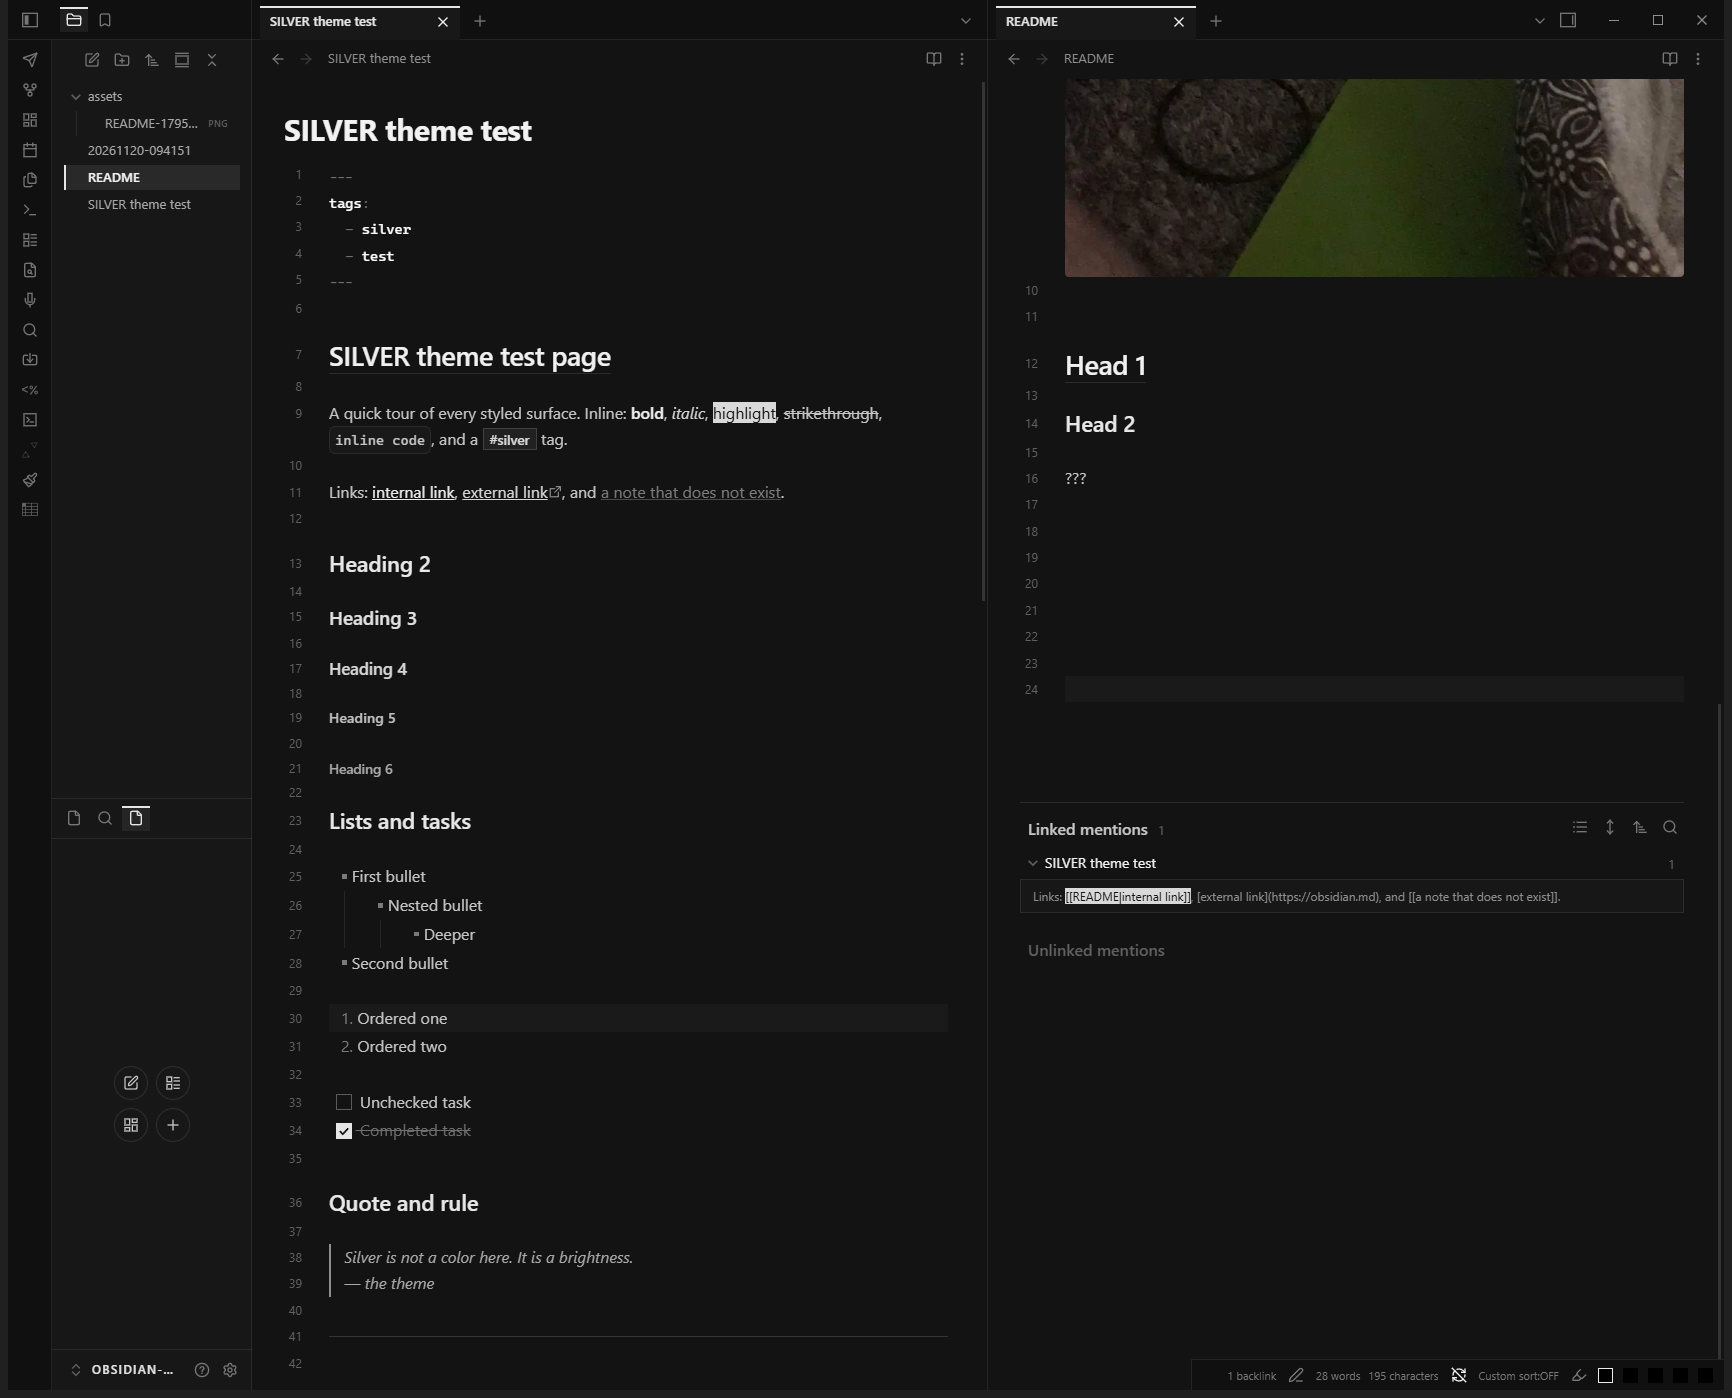
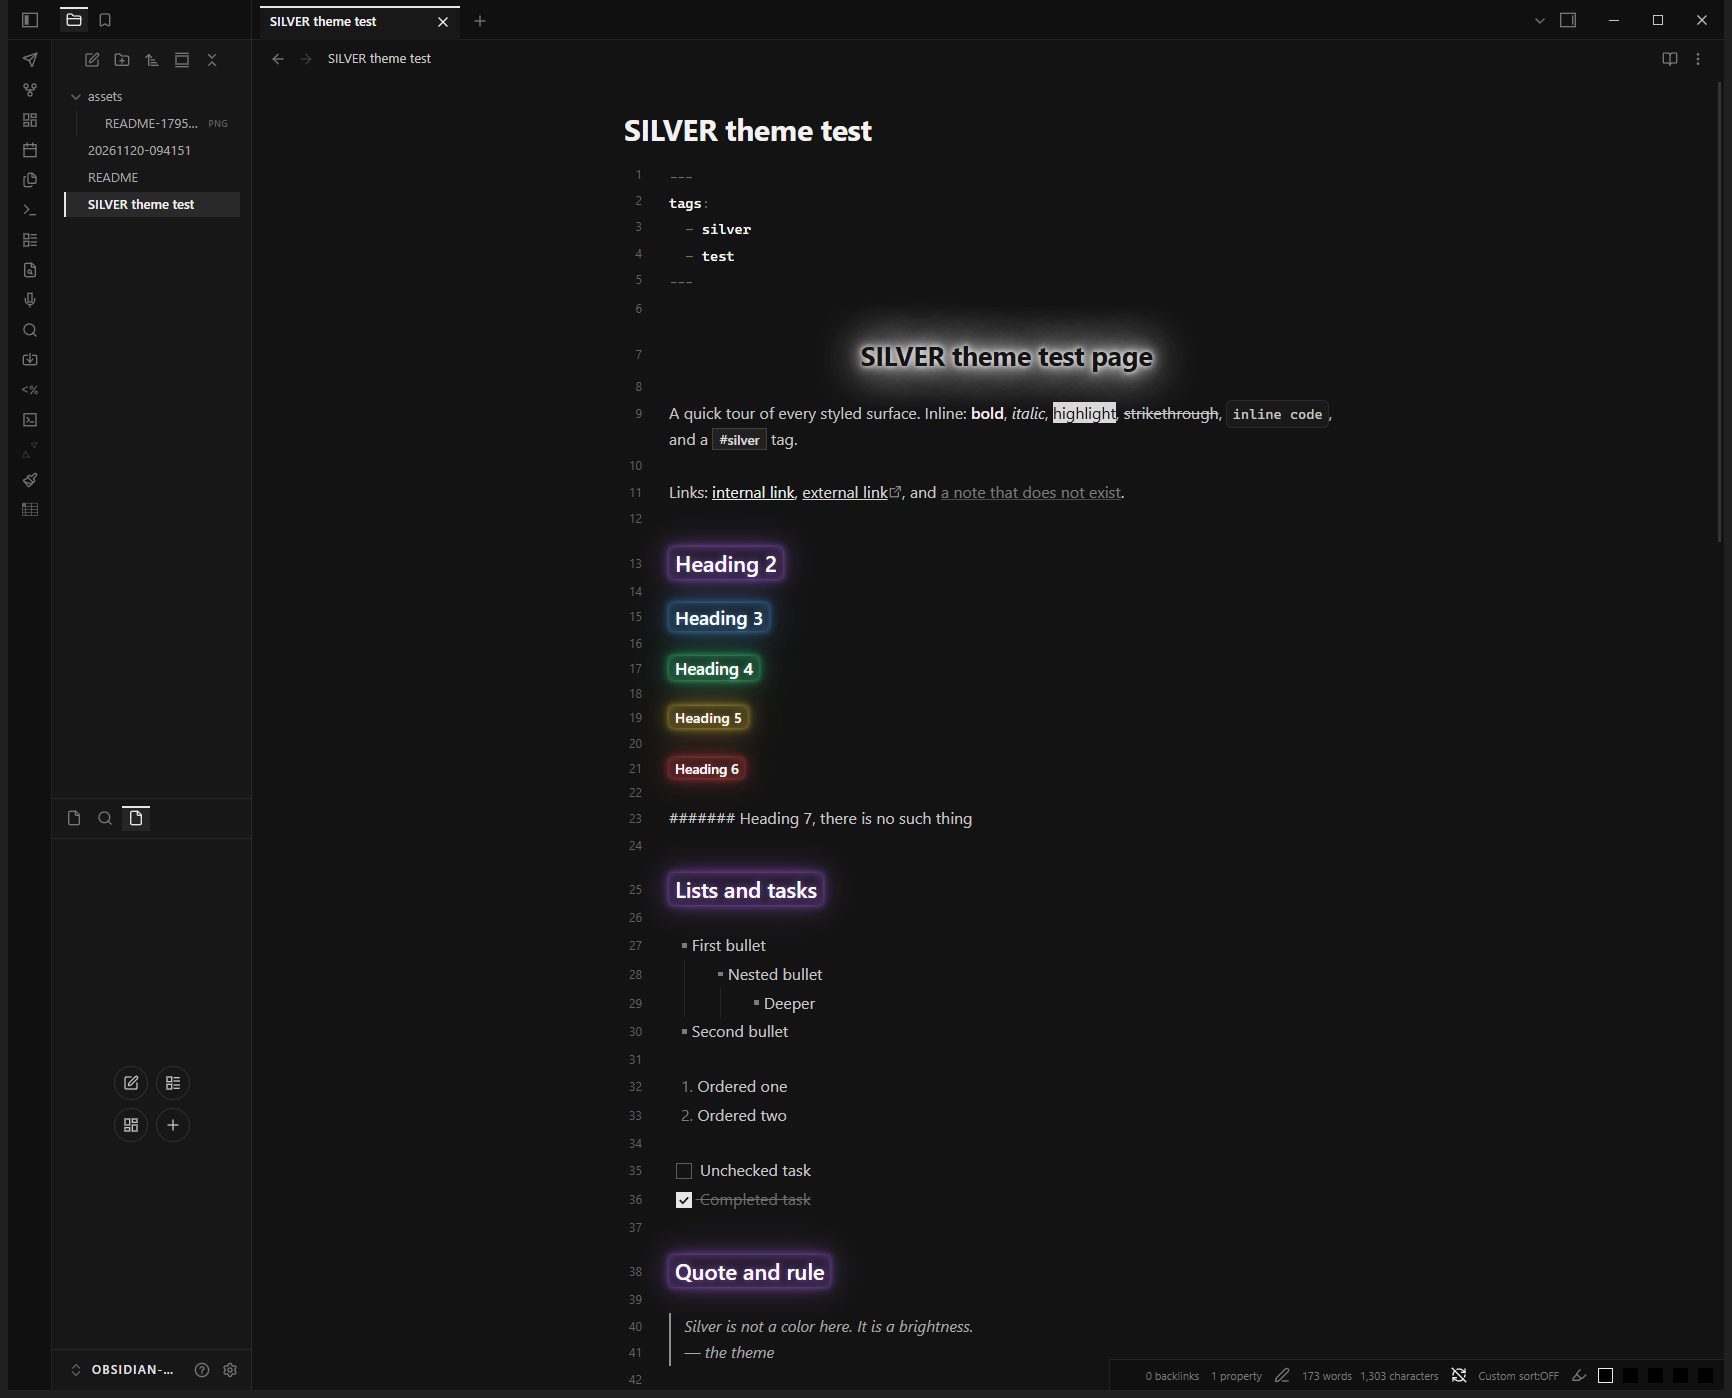
H2-6 with 5 rainbow neon-glow background

diff --git a/theme.css b/theme.css
@@ -381,6 +381,19 @@ svg * {
 }
 
 /* ---------------------------------------------------------------
+   Neon header spectrum — experimental, intentional departure from
+   the monochrome language. H2–H6 only; H1 stays silver.
+   --------------------------------------------------------------- */
+
+.theme-dark {
+	--neon-violet: #b366ff;
+	--neon-blue: #4da6ff;
+	--neon-green: #3dff9e;
+	--neon-yellow: #ffd93d;
+	--neon-red: #ff4d4d;
+}
+
+/* ---------------------------------------------------------------
    Signature details
    --------------------------------------------------------------- */
 
@@ -431,10 +444,36 @@ svg * {
 	text-shadow: 0 0 5px var(--interactive-accent), 0 0 10px var(--interactive-accent), 0 0 20px var(--interactive-accent), 0 0 40px var(--interactive-accent), 0 0 45px var(--interactive-accent);
 }
 
-/* Faint silver echo on H2–H6 (Cyber Glow glows every heading level) */
+/* Rainbow neon plates, reading view: one hue per level, white ink */
+
+.theme-dark .markdown-rendered h2 {
+	--header-neon: var(--neon-violet);
+}
+
+.theme-dark .markdown-rendered h3 {
+	--header-neon: var(--neon-blue);
+}
+
+.theme-dark .markdown-rendered h4 {
+	--header-neon: var(--neon-green);
+}
+
+.theme-dark .markdown-rendered h5 {
+	--header-neon: var(--neon-yellow);
+}
+
+.theme-dark .markdown-rendered h6 {
+	--header-neon: var(--neon-red);
+}
 
 .theme-dark .markdown-rendered h2, .theme-dark .markdown-rendered h3, .theme-dark .markdown-rendered h4, .theme-dark .markdown-rendered h5, .theme-dark .markdown-rendered h6 {
-	text-shadow: 0 0 5px rgb(230 230 230 / 45%), 0 0 12px rgb(230 230 230 / 25%);
+	width: fit-content;
+	max-width: 100%;
+	padding: 2px 10px;
+	color: #fff;
+	background-color: color-mix(in srgb, var(--header-neon) 12%, transparent);
+	box-shadow: inset 0 0 10px color-mix(in srgb, var(--header-neon) 35%, transparent), 0 0 6px color-mix(in srgb, var(--header-neon) 55%, transparent), 0 0 18px color-mix(in srgb, var(--header-neon) 35%, transparent), 0 0 36px color-mix(in srgb, var(--header-neon) 20%, transparent);
+	text-shadow: 0 0 6px color-mix(in srgb, var(--header-neon) 70%, transparent);
 }
 
 /* Bright-silver indicators: active file, active tab */
@@ -511,14 +550,43 @@ svg * {
 	color: var(--text-normal);
 }
 
-/* Neon H1 in live preview (text + formatting markers + bold spans) */
+/* Rainbow neon, live preview: hue per level on the header spans */
 
-.theme-dark .cm-s-obsidian .cm-line span.cm-header-2, .theme-dark .cm-s-obsidian .cm-line span.cm-header-3, .theme-dark .cm-s-obsidian .cm-line span.cm-header-4, .theme-dark .cm-s-obsidian .cm-line span.cm-header-5, .theme-dark .cm-s-obsidian .cm-line span.cm-header-6 {
-	text-shadow: 0 0 5px rgb(230 230 230 / 45%), 0 0 12px rgb(230 230 230 / 25%);
+.theme-dark .cm-s-obsidian .cm-line span.cm-header-2 {
+	--header-neon: var(--neon-violet);
 }
+
+.theme-dark .cm-s-obsidian .cm-line span.cm-header-3 {
+	--header-neon: var(--neon-blue);
+}
+
+.theme-dark .cm-s-obsidian .cm-line span.cm-header-4 {
+	--header-neon: var(--neon-green);
+}
+
+.theme-dark .cm-s-obsidian .cm-line span.cm-header-5 {
+	--header-neon: var(--neon-yellow);
+}
+
+.theme-dark .cm-s-obsidian .cm-line span.cm-header-6 {
+	--header-neon: var(--neon-red);
+}
+
+/* Neon H1 in live preview (text + formatting markers + bold spans) */
 
 .theme-dark .cm-s-obsidian .cm-line span.cm-header-1, .theme-dark .cm-s-obsidian .cm-line span.cm-header-1 .cm-strong {
 	font-weight: 700;
 	color: var(--text-on-accent);
 	text-shadow: 0 0 5px var(--interactive-accent), 0 0 10px var(--interactive-accent), 0 0 20px var(--interactive-accent), 0 0 40px var(--interactive-accent), 0 0 45px var(--interactive-accent);
+}
+
+/* Rainbow neon plates, live preview: white ink, glow background.
+   Formatting markers (##) are excluded so they stay dim silver. */
+
+.theme-dark .cm-s-obsidian .cm-line span.cm-header-2:not(.cm-formatting-header), .theme-dark .cm-s-obsidian .cm-line span.cm-header-3:not(.cm-formatting-header), .theme-dark .cm-s-obsidian .cm-line span.cm-header-4:not(.cm-formatting-header), .theme-dark .cm-s-obsidian .cm-line span.cm-header-5:not(.cm-formatting-header), .theme-dark .cm-s-obsidian .cm-line span.cm-header-6:not(.cm-formatting-header) {
+	padding: 1px 6px;
+	color: #fff;
+	background-color: color-mix(in srgb, var(--header-neon) 12%, transparent);
+	box-shadow: inset 0 0 10px color-mix(in srgb, var(--header-neon) 35%, transparent), 0 0 6px color-mix(in srgb, var(--header-neon) 55%, transparent), 0 0 18px color-mix(in srgb, var(--header-neon) 35%, transparent), 0 0 36px color-mix(in srgb, var(--header-neon) 20%, transparent);
+	text-shadow: 0 0 6px color-mix(in srgb, var(--header-neon) 70%, transparent);
 }

diff --git a/README.md b/README.md
@@ -23,8 +23,10 @@ from brightness, weight, and 1px rules, like an instrument panel.
   - Brushed-metal gradient on primary (CTA) buttons.
   - Uppercase, letter-spaced vault name and callout titles.
   - Neon negative-space H1: dark cut-out glyphs inside a stacked silver
-    halo (ported from Cyber Glow's header glow), centered; faint silver
-    echo on H2–H6. Square list bullets.
+    halo (ported from Cyber Glow's header glow), centered.
+  - Neon H2–H6 plates (experimental rainbow): white text on glowing
+    violet/blue/green/yellow/red backgrounds, one hue per level.
+    Square list bullets.
   - Monochrome syntax highlighting: keywords bold-bright, strings and
     comments italic-dim, functions pure white.
   - Inverted silver tooltips and notices; tabular numerals in the status bar.
